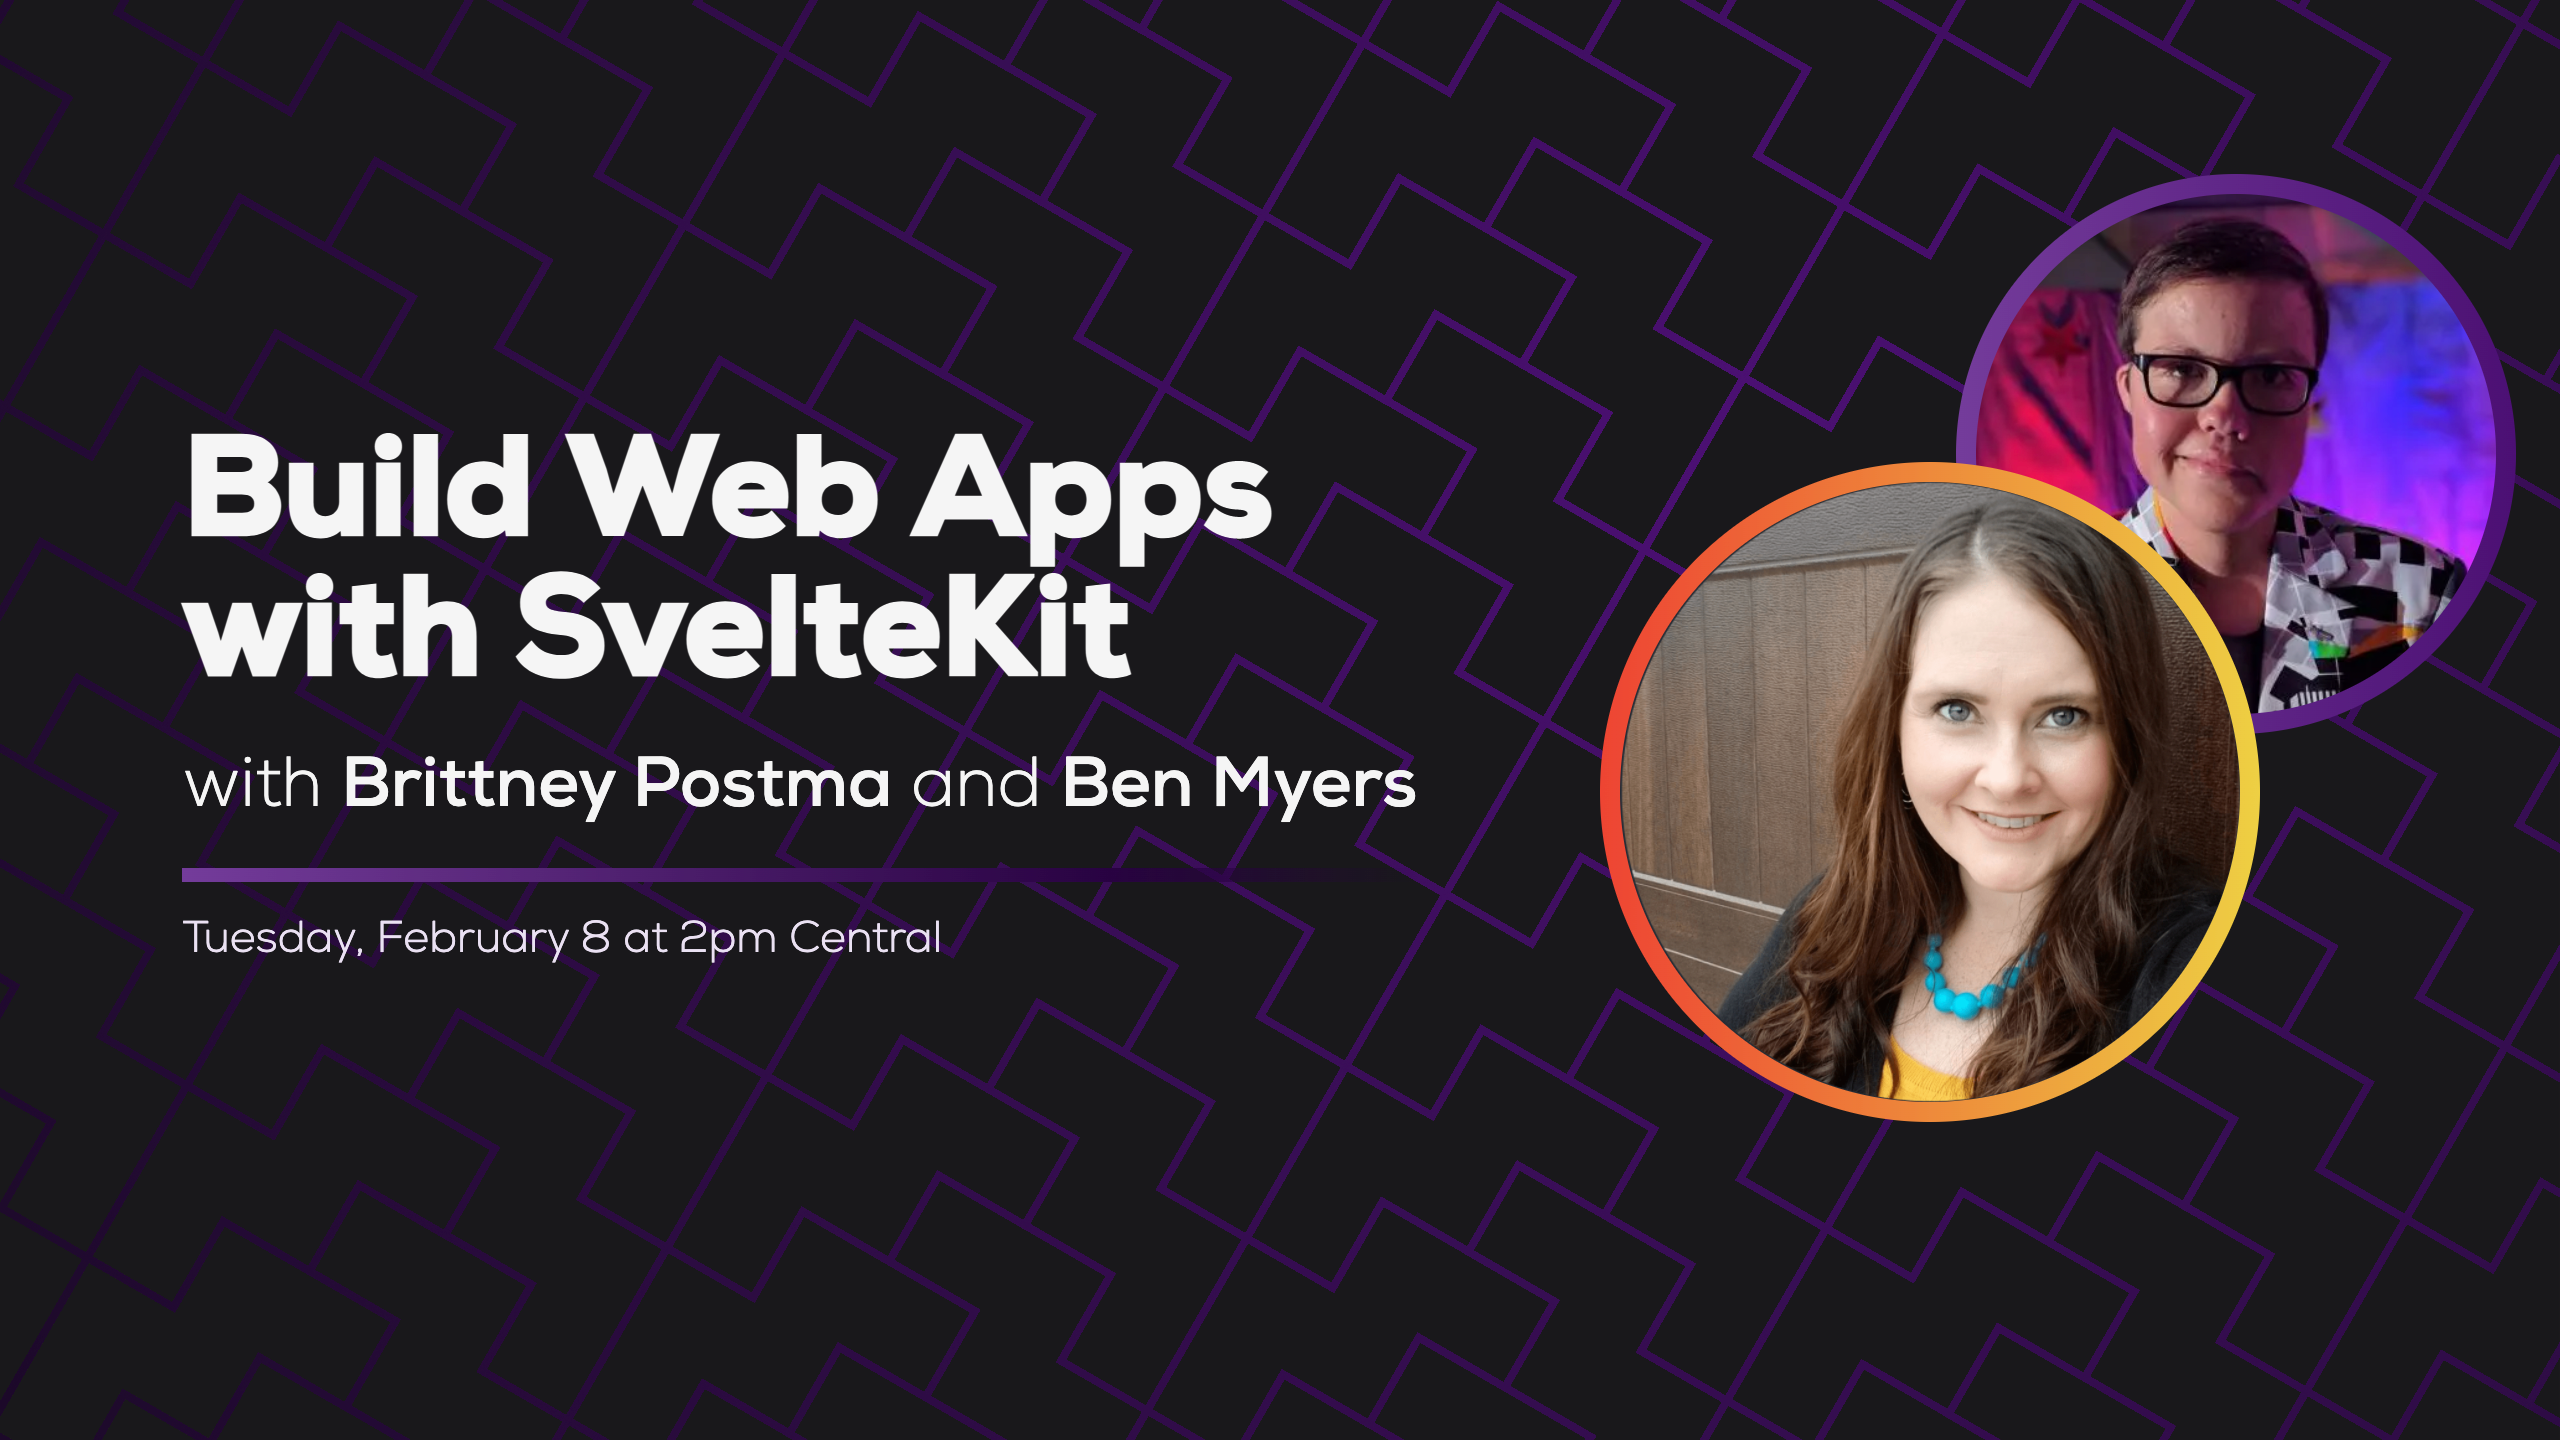
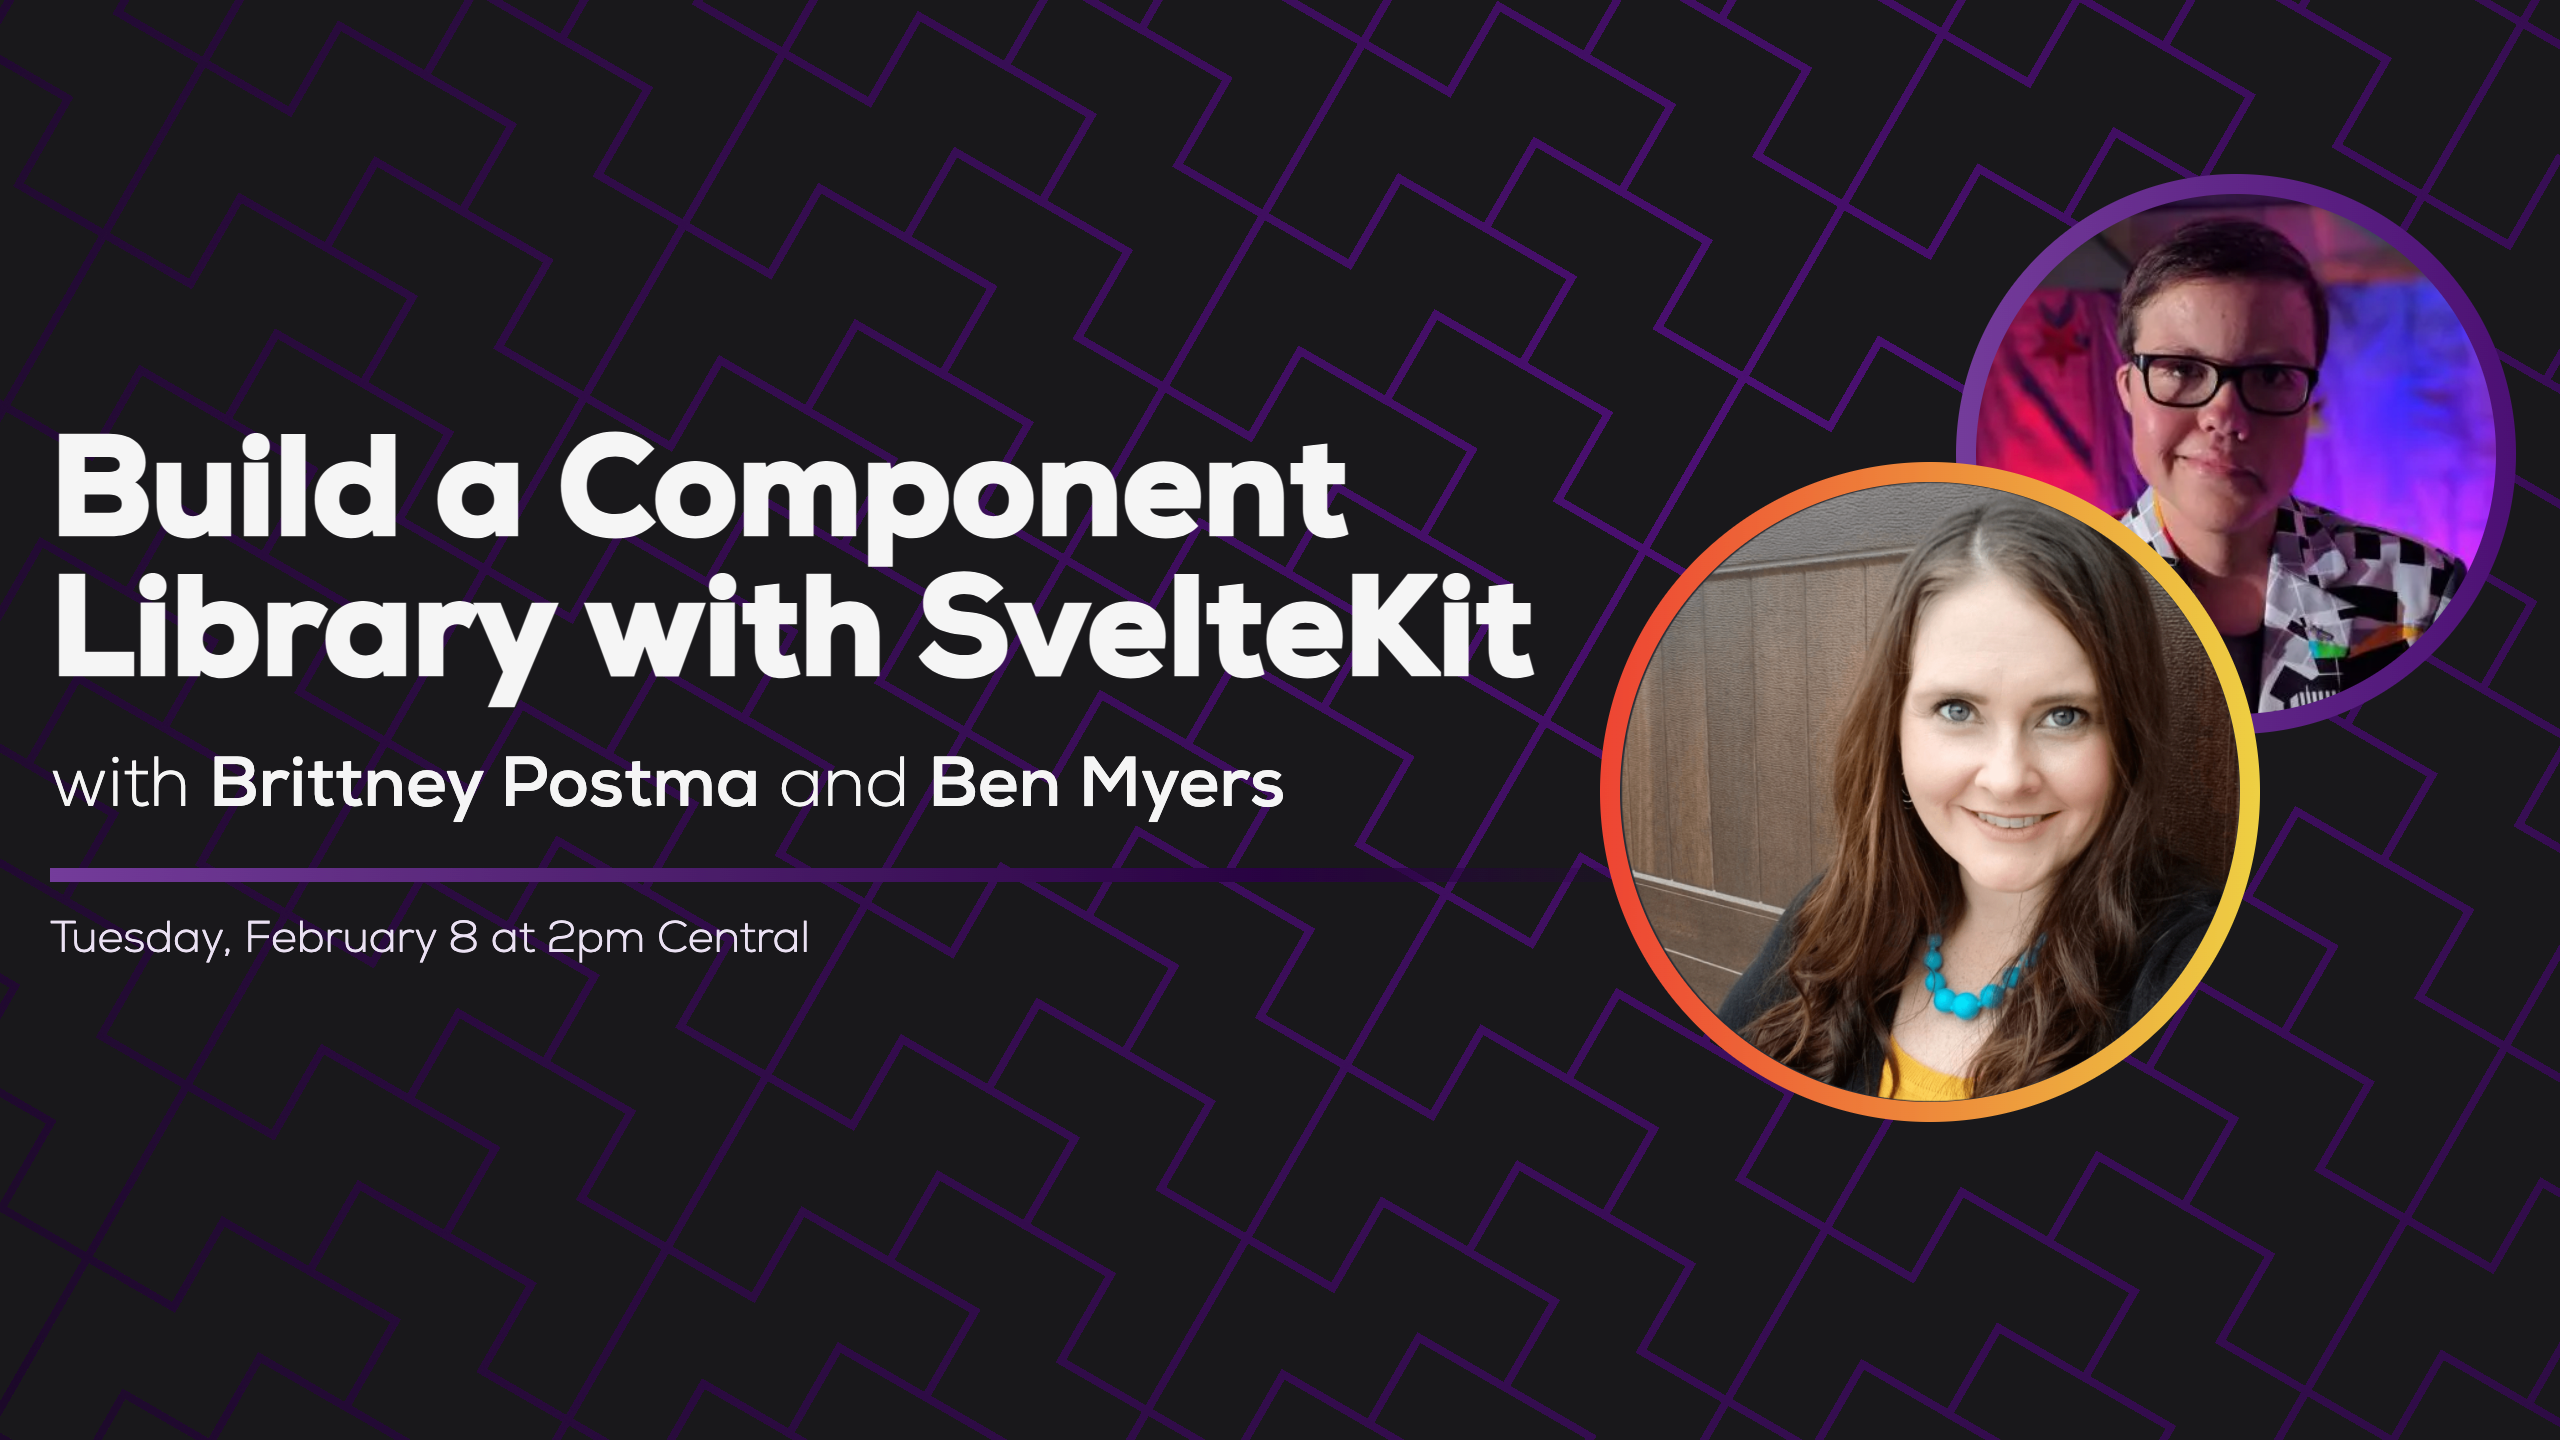
Rename Brittney's stream

Changed region(s): [[0.0, 0.2812, 0.5938, 0.5], [0.0312, 0.5312, 0.5625, 0.5625], [0.0, 0.5938, 0.375, 0.6875]]

diff --git a/src/streams/2022-02-08-sveltekit.md b/src/streams/2022-02-08-sveltekit.md
@@ -1,6 +1,6 @@
 ---
-title: Build Web Apps in SvelteKit with Brittney Postma
-thumbnailTitle: Build Web Apps in SvelteKit
+title: Build a Component Library in SvelteKit with Brittney Postma
+thumbnailTitle: Build a Component Library in SvelteKit
 hosts:
   - Ben Myers
   - Brittney Postma
